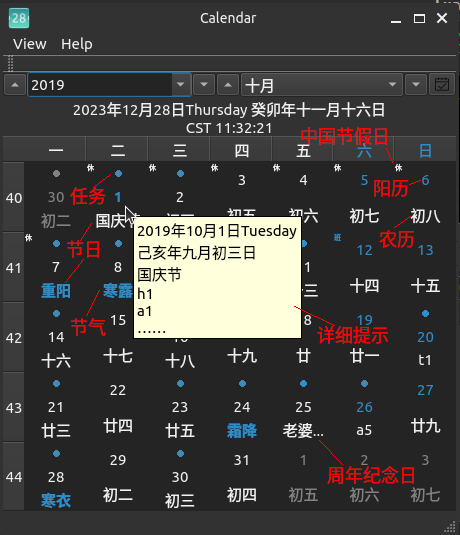
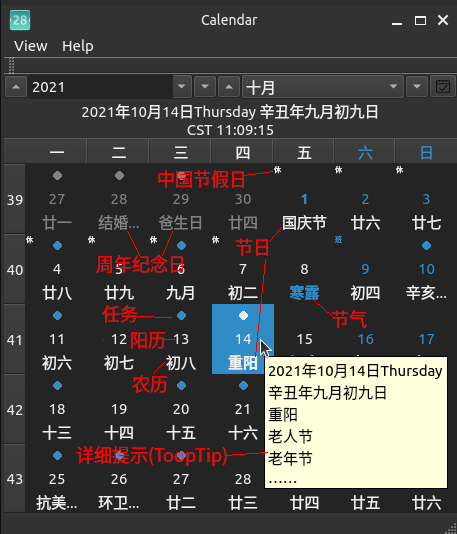
Fix: tooltip bug

diff --git a/Src/LunarCalendarModel.cpp b/Src/LunarCalendarModel.cpp
@@ -259,7 +259,7 @@ QVariant CLunarCalendarModel::data(const QModelIndex &index, int role) const
         if(!day.SolarHoliday.isEmpty()) {
             foreach(auto h, day.SolarHoliday) {
                 if(h.isEmpty() || "" == h)
-                    break;
+                    continue;
                 if(nCounts > nTotals)
                     break;
                 if(nCounts == nTotals)
@@ -275,7 +275,7 @@ QVariant CLunarCalendarModel::data(const QModelIndex &index, int role) const
         if(!day.LunarHoliday.isEmpty()) {
             foreach (auto h, day.LunarHoliday) {
                 if(h.isEmpty() || "" == h)
-                    break;
+                    continue;
                 if(nCounts > nTotals)
                     break;
                 if(nCounts == nTotals)
@@ -291,7 +291,7 @@ QVariant CLunarCalendarModel::data(const QModelIndex &index, int role) const
         if(!day.Tasks.isEmpty()) {
             foreach (auto h, day.Tasks) {
                 if(h.isEmpty() || "" == h)
-                    break;
+                    continue;
                 if(nCounts > nTotals)
                     break;
                 if(nCounts == nTotals)

diff --git a/Src/LunarCalendar.h b/Src/LunarCalendar.h
@@ -334,8 +334,9 @@ public:
      * \snippet App/MainWindow.cpp Instance CHandler
      * - 用 SetTaskHandle 设置处理类
      * \snippet App/MainWindow.cpp Set user defined tasks with CTaskHandler
-     * 
      * \see SetTaskHandle \ref UserDefinedTasks \ref HolidayPriority
+     *
+     * \image html Docs/image/Task.png
      */
     class CTaskHandler
     {

diff --git a/App/MainWindow.cpp b/App/MainWindow.cpp
@@ -220,7 +220,7 @@ MainWindow::MainWindow(QWidget *parent) :
         // 农历节日（以农历年为周期）
         if(9 == lunarMonth && 9 == lunarDay)
         {
-            tasks << "老人节";
+            tasks << "老人节" << "老年节" << "登高节" << "踏秋";
             return 0;
         }
         

diff --git a/ChangeLog.md b/ChangeLog.md
@@ -6,6 +6,11 @@
     - CLunarCalendar::InitResource
   + 使用节日数据库 SQL 文件
   + 修复当前选择字体反显颜色
+  + 修改日历项目位置
+  + 称动 Doxyfile.in -> Docs/doxygen/Doxyfile.in
+  + 修复：
+    - 详细提示错误
+    - 中国节假日仅当阳历显示时才显示。任务为阳历或阴历显示时显示
 
 - v0.3.2
   + 农历位置超过 3 个字符，则用 ... 表示
